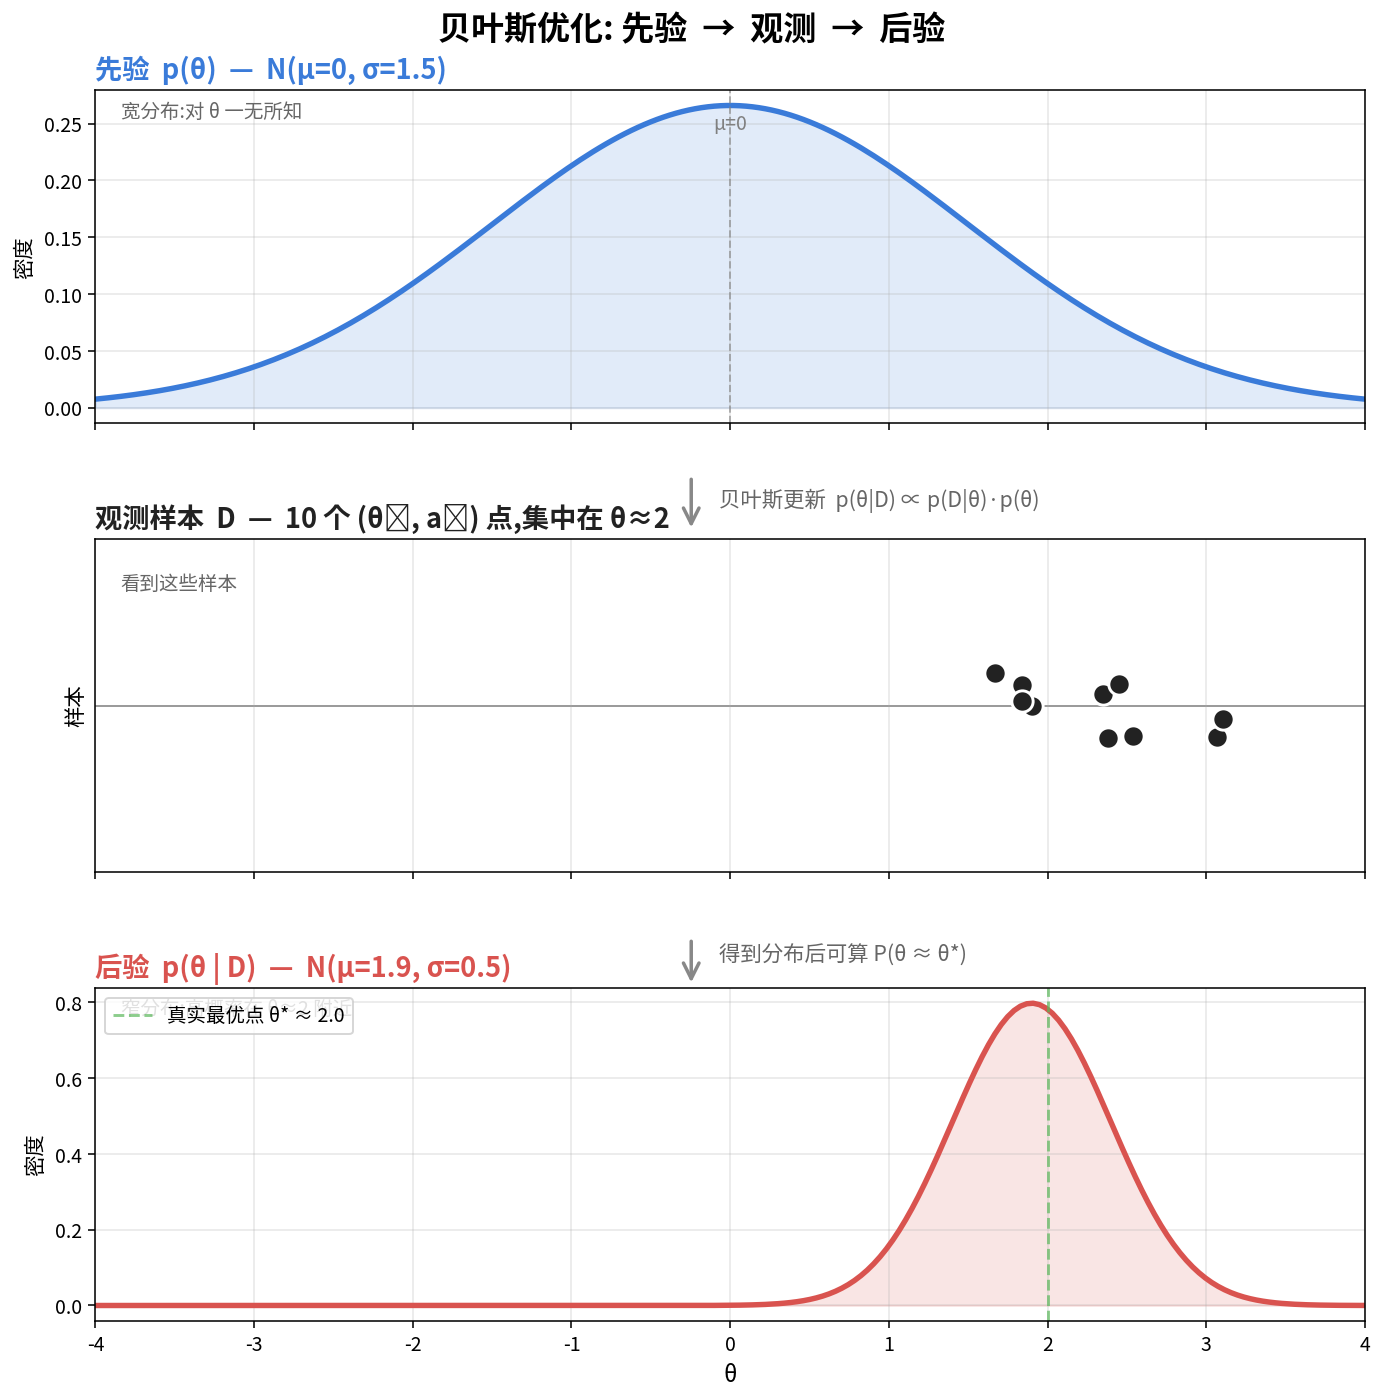
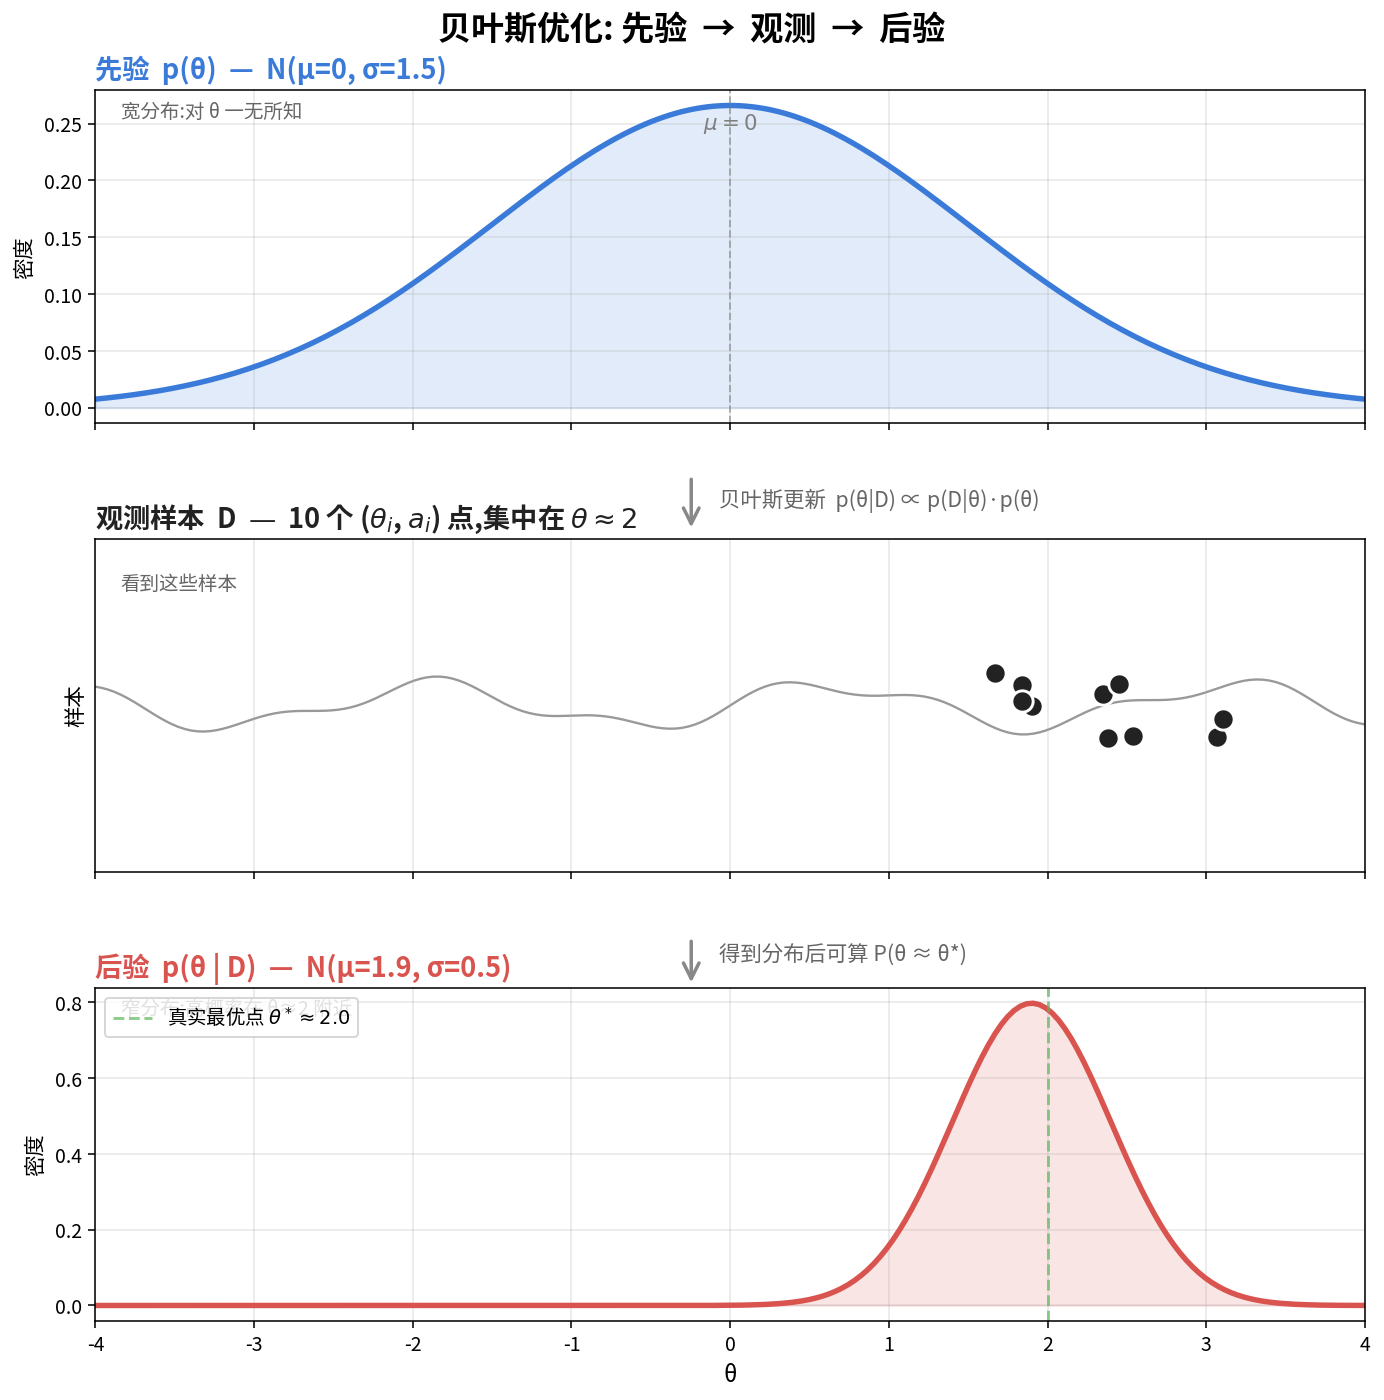
fix: bayesian_update 修复下标字符缺失 + 直线改波浪

diff --git a/RL/image/bayesian_update.py b/RL/image/bayesian_update.py
@@ -38,7 +38,7 @@ fig, axes = plt.subplots(3, 1, figsize=(10, 10), sharex=True)
 axes[0].plot(THETA, P_PRIOR, color="#3a7bd9", linewidth=2.8)
 axes[0].fill_between(THETA, P_PRIOR, alpha=0.15, color="#3a7bd9")
 axes[0].axvline(x=0, color="gray", linestyle="--", alpha=0.6, linewidth=1)
-axes[0].text(0, P_PRIOR.max() * 0.92, "μ=0", ha="center", color="gray", fontsize=10, style="italic")
+axes[0].text(0, P_PRIOR.max() * 0.92, r"$\mu=0$", ha="center", color="gray", fontsize=11, style="italic")
 axes[0].set_title("先验  p(θ)  —  N(μ=0, σ=1.5)",
                   fontsize=14, color="#3a7bd9", fontweight="bold", loc="left")
 axes[0].set_ylabel("密度", fontsize=11)
@@ -48,13 +48,16 @@ axes[0].text(0.02, 0.92, "宽分布:对 θ 一无所知",
              transform=axes[0].transAxes, fontsize=10, color="#666", style="italic")
 
 # ---------- Panel 2: 观测样本 ----------
-# 用 stripplot 风格: 一行散点 + jitter
+# 用 stripplot 风格: 散点 + 下方波浪基线 (代表测量序列/时间轴)
 np.random.seed(99)
 y_jitter = np.random.uniform(-0.08, 0.08, size=len(SAMPLE_THETAS))
 axes[1].scatter(SAMPLE_THETAS, y_jitter, s=120, color="#222",
                 edgecolors="white", linewidths=1.5, zorder=3)
-axes[1].axhline(y=0, color="#999", linewidth=1, zorder=1)
-axes[1].set_title(f"观测样本  D  —  {len(SAMPLE_THETAS)} 个 (θᵢ, aᵢ) 点,集中在 θ≈2",
+# 波浪基线 (替代原本的直线, 表示测量的波动)
+wave_x = np.linspace(*THETA_RANGE, 200)
+wave_y = 0.05 * np.sin(wave_x * 2.5) + 0.02 * np.sin(wave_x * 6.0)
+axes[1].plot(wave_x, wave_y, color="#999", linewidth=1.2, zorder=1)
+axes[1].set_title(f"观测样本  D  —  {len(SAMPLE_THETAS)} 个 ($\\theta_i$, $a_i$) 点,集中在 $\\theta \\approx 2$",
                   fontsize=14, color="#222", fontweight="bold", loc="left")
 axes[1].set_ylabel("样本", fontsize=11)
 axes[1].set_ylim(-0.4, 0.4)
@@ -67,7 +70,7 @@ axes[1].text(0.02, 0.85, "看到这些样本",
 axes[2].plot(THETA, P_POST, color="#d9534f", linewidth=2.8)
 axes[2].fill_between(THETA, P_POST, alpha=0.15, color="#d9534f")
 axes[2].axvline(x=2.0, color="#5cb85c", linestyle="--", alpha=0.7, linewidth=1.5,
-                label="真实最优点 θ* ≈ 2.0")
+                label=r"真实最优点 $\theta^* \approx 2.0$")
 axes[2].set_title("后验  p(θ | D)  —  N(μ=1.9, σ=0.5)",
                   fontsize=14, color="#d9534f", fontweight="bold", loc="left")
 axes[2].set_xlabel("θ", fontsize=12)